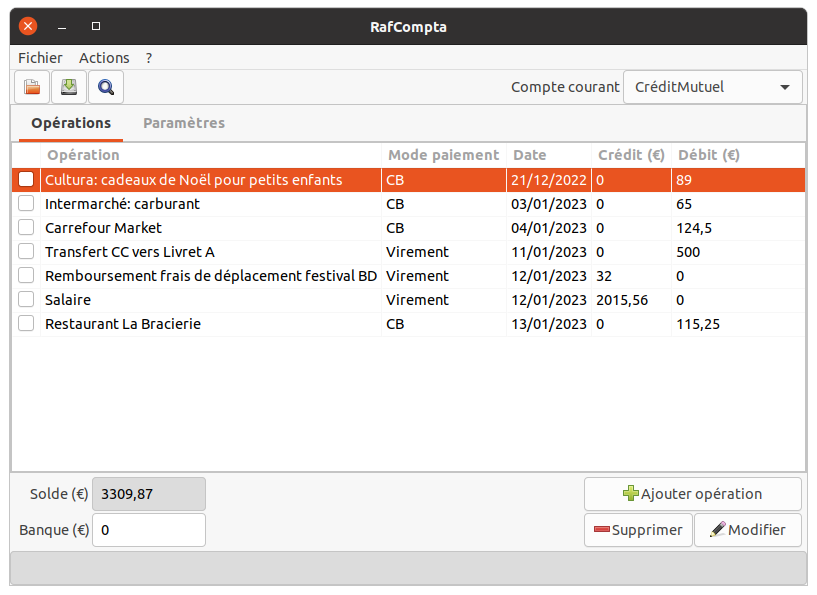
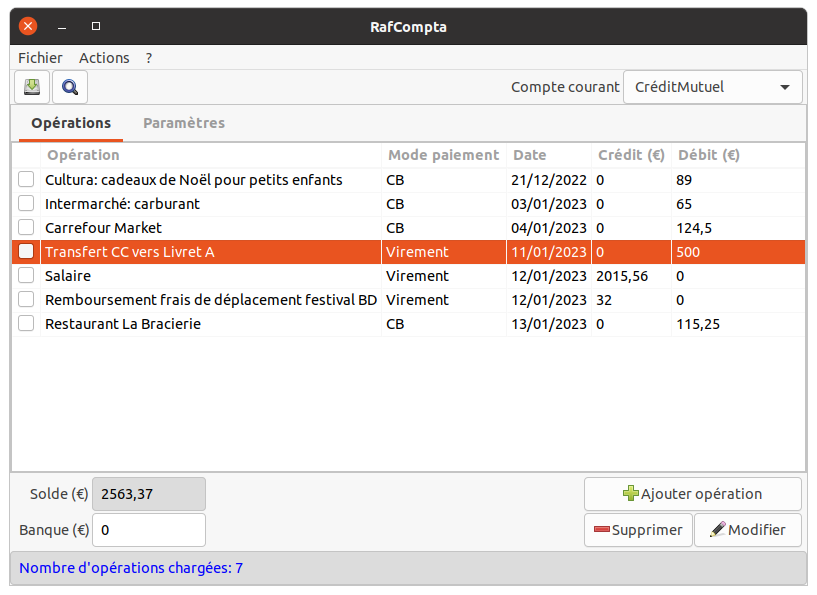
v1.3.0116.0

diff --git a/MainWindow.cs b/MainWindow.cs
@@ -51,7 +51,7 @@ namespace RafCompta
         private string strMsg = string.Empty;
         //
         // controles
-        [UI] private MenuItem mnuFichierOuvrir = null;
+        // [UI] private MenuItem mnuFichierOuvrir = null;
         [UI] private MenuItem mnuFichierEnregistrer = null;
         [UI] private MenuItem mnuFichierConsultArchive = null;
         [UI] private MenuItem mnuFichierQuitter = null;
@@ -73,7 +73,7 @@ namespace RafCompta
         [UI] private Button btnSupprimer = null;
         [UI] private Button btnModifier = null;
         [UI] private Button btnRapprocher = null;
-        [UI] private Button btnOuvrir = null;
+        // [UI] private Button btnOuvrir = null;
         [UI] private Button btnEnregistrer = null;
         [UI] private Button btnConsulterArchives = null;
         [UI] private Label lblEcart = null;
@@ -104,13 +104,23 @@ namespace RafCompta
             this.SetPosition(WindowPosition.Center);
             // timer pour afficher les messages d'erreurs au chargement
             // après l'affichage de la fenêtre principale
-            GLib.Timeout.Add(1000, new GLib.TimeoutHandler(update_status));
+            GLib.Timeout.Add(1000, new GLib.TimeoutHandler(Update_status));
         }
 
-        private bool update_status()
+        private bool Update_status()
         {
             if (strMsg != string.Empty)
+            {
                 Global.ShowMessage("Erreurs au chargement", strMsg, this);
+            }
+            else if (Global.FichierCompteNonTrouve == true)
+            {
+                // on lance la création d'un compte
+                OnMnuActionsAjouterCompte(new Object(), new EventArgs());
+                // si aucun compte créé
+                if (Global.ListeComptesModified == false)
+                    Global.AfficheInfo(txtInfo, "Créez un nouveau compte", new Gdk.Color(0,0,255));
+            }
             // returning false would terminate the timeout.
             return false;
         }
@@ -130,7 +140,7 @@ namespace RafCompta
             DeleteEvent += delegate { OnMnuFichierQuitter(this, new EventArgs()); };
             //
             // events menus
-            mnuFichierOuvrir.Activated += OnMnuFichierOuvrir;
+            // mnuFichierOuvrir.Activated += OnMnuFichierOuvrir;
             mnuFichierEnregistrer.Activated += OnMnuFichierEnregistrer;
             mnuFichierConsultArchive.Activated += OnMnuFichierConsultArchive;
             mnuFichierQuitter.Activated += OnMnuFichierQuitter;
@@ -153,7 +163,7 @@ namespace RafCompta
             btnSupprimer.Clicked += OnBtnSupprimerOperationClicked;
             btnModifier.Clicked += OnBtnModifierOperationClicked;
             btnRapprocher.Clicked += OnBtnRapprocherClick;
-            btnOuvrir.Clicked += OnBtnOuvrirClicked;
+            // btnOuvrir.Clicked += OnBtnOuvrirClicked;
             btnEnregistrer.Clicked += OnBtnEnregistrerClicked;
             btnConsulterArchives.Clicked += OnBtnConsulterArchivesClicked;
             //
@@ -170,14 +180,15 @@ namespace RafCompta
             //
             Global.LireConfigLocal(ref strMsg);
 			if (strMsg != string.Empty)
-                strMsg = "RafCompta, lecture configuration:" + strMsg + "\n\n";
+                strMsg = "Lecture configuration: " + strMsg + "\n\n";
             // chargement liste comptes
             string strMsg2 = string.Empty;
             Int16 nbComptes = datas.ChargeListeComptes(ref strMsg2);
-			if (nbComptes == 0)
+            if (strMsg2 != string.Empty)
             {
-                strMsg2 = "RafCompta, lecture liste comptes: " + strMsg2;
-			    strMsg += strMsg2 + "\nAucun compte n'a été trouvé";
+                if (strMsg != string.Empty)
+                    strMsg += "\n\n";
+                strMsg += "Lecture fichier comptes: " + strMsg2;
             }
 			//
             UpdateCbListeComptes();
@@ -186,7 +197,11 @@ namespace RafCompta
 			//
 			Global.ConfigModified = false;
 			Global.ListeComptesModified = false;
-            Global.AfficheInfo(txtInfo, "Sélectionnez un compte dans la liste déroulante, ou créez un nouveau compte", new Gdk.Color(0,0,255));
+            //
+            if (nbComptes == 0)
+                Global.AfficheInfo(txtInfo, "Créez un nouveau compte", new Gdk.Color(0,0,255));
+            else
+                Global.AfficheInfo(txtInfo, "Sélectionnez un compte dans la liste déroulante, ou créez un nouveau compte", new Gdk.Color(0,0,255));
         }
 
         private void OnBtnConsulterArchivesClicked(object sender, EventArgs e)
@@ -199,10 +214,10 @@ namespace RafCompta
             OnMnuFichierEnregistrer(sender, e);
         }
 
-        private void OnBtnOuvrirClicked(object sender, EventArgs e)
-        {
-            OnMnuFichierOuvrir(sender, e);
-        }
+        // private void OnBtnOuvrirClicked(object sender, EventArgs e)
+        // {
+        //     OnMnuFichierOuvrir(sender, e);
+        // }
 
         // Mise à jour des données.
         // <param name="bVersIHM"></param>
@@ -334,7 +349,7 @@ namespace RafCompta
         private void OnMnuPointAPropos(object sender, EventArgs e)
         {
             AboutBox aboutBox = new AboutBox(this);
-            aboutBox.ShowAll();
+            aboutBox.Show();// ShowAll affiche aussi le bouton License qui n'est pas connecté
         }
 
         // Bouton 'Rapprocher'.
@@ -667,18 +682,18 @@ namespace RafCompta
         // Menu 'Fichier->Ouvrir'.
 		// <param name="sender"></param>
 		// <param name="e"></param>
-		void OnMnuFichierOuvrir(object sender, EventArgs e)
-		{
-			if (Global.NomCompteCourant == string.Empty)
-			{
-				Global.AfficheInfo(txtInfo, "Impossible: veuillez d'abord sélectionner un compte courant", new Gdk.Color(255,0,0));
-				return;
-			}
-			txtInfo.Text = string.Empty;
-			ConfirmeSiDataModifiees("Ouvrir compte:");
-			//
-			OuvrirFichier();
-		}
+		// void OnMnuFichierOuvrir(object sender, EventArgs e)
+		// {
+		// 	if (Global.NomCompteCourant == string.Empty)
+		// 	{
+		// 		Global.AfficheInfo(txtInfo, "Impossible: veuillez d'abord sélectionner un compte courant", new Gdk.Color(255,0,0));
+		// 		return;
+		// 	}
+		// 	txtInfo.Text = string.Empty;
+		// 	ConfirmeSiDataModifiees("Ouvrir compte:");
+		// 	//
+		// 	OuvrirFichier();
+		// }
 
         /// <summary>
 		/// Ouverture du fichier de compte courant.

diff --git a/OperationBox.cs b/OperationBox.cs
@@ -128,13 +128,13 @@ namespace RafCompta
         private void OnTxtCreditFocusOut(object sender, EventArgs a)
         {
             txtCredit.FocusOutEvent -= OnTxtCreditFocusOut;
-			txtCredit.Text = Global.GetValueOrZero(txtInfo, sender, true).ToString();
+			txtCredit.Text = Math.Abs(Global.GetValueOrZero(txtInfo, sender, true)).ToString();
 			txtCredit.FocusOutEvent += OnTxtCreditFocusOut;
         }
         private void OnTxtDebitFocusOut(object sender, EventArgs a)
         {
             txtDebit.FocusOutEvent -= OnTxtDebitFocusOut;
-			txtDebit.Text = Global.GetValueOrZero(txtInfo, sender, true).ToString();
+			txtDebit.Text = Math.Abs(Global.GetValueOrZero(txtInfo, sender, true)).ToString();
 			txtDebit.FocusOutEvent += OnTxtDebitFocusOut;
         }
 
@@ -155,6 +155,13 @@ namespace RafCompta
 
         void OnBtnOkClicked(object sender, EventArgs e)
 		{
+            // crédit ou débit mais pas les deux
+            if (txtDebit.Text != "0" && txtCredit.Text != "0")
+            {
+                Global.AfficheInfo(txtInfo, "Impossible de saisir simultanément du crédit et du débit", new Gdk.Color(255,0,0));
+                return;
+            }
+            //
 			rResponse = ResponseType.Ok;
 			this.Dispose();
 		}

diff --git a/Global.cs b/Global.cs
@@ -59,6 +59,7 @@ namespace RafCompta
 		static bool bChargeFichierAuto;
 		static bool bSauveFichierAuto;
 		static bool bArchiveLigneRappro;
+		static bool bFichierCompteNonTrouve;
 		//
 		static bool bConfigModified;
 		static bool bListeComptesModified;
@@ -80,6 +81,7 @@ namespace RafCompta
         public static bool ListeComptesModified { get => bListeComptesModified; set => bListeComptesModified = value; }
         public static bool SauveFichierAuto { get => bSauveFichierAuto; set => bSauveFichierAuto = value; }
         public static bool ArchiveLigneRappro { get => bArchiveLigneRappro; set => bArchiveLigneRappro = value; }
+        public static bool FichierCompteNonTrouve { get => bFichierCompteNonTrouve; set => bFichierCompteNonTrouve = value; }
 
         public enum eTrvOperationsCols
 		{
@@ -112,6 +114,7 @@ namespace RafCompta
 			ChargeFichierAuto = true;
 			SauveFichierAuto = false;
 			ArchiveLigneRappro = true;
+			FichierCompteNonTrouve = false;
 			//
 			ConfigModified = false;
 			ListeComptesModified = false;

diff --git a/AboutBox.cs b/AboutBox.cs
@@ -50,13 +50,12 @@ namespace RafCompta
             this.Version = System.Reflection.Assembly.GetExecutingAssembly().GetName().Version.ToString();
         
             Widget[] buttons = btnBox.Children;
-            // attention, pas de bouton Fermer sur Xubuntu
+            // attention, pas de bouton Fermer sur Ubuntu
             if (buttons.Length > 2)
             {
                 Button btnFermer = (Button)buttons[2];
                 btnFermer.Clicked += OnBtnFermerClicked;
             }
-            //Global.ShowMessage("", btnFermer., this);
         }
 
         private void OnBtnFermerClicked(object sender, EventArgs e)

diff --git a/Datas.cs b/Datas.cs
@@ -161,6 +161,10 @@ namespace RafCompta
 					}
 				}
 			}
+			catch (FileNotFoundException)
+			{
+				Global.FichierCompteNonTrouve = true;
+			}
 			catch (Exception ex)
 			{
 				strMsg += ex.Message;

diff --git a/README.md b/README.md
@@ -15,8 +15,8 @@ Les fichiers sont stockés dans le sous-dossier _Fichiers_, situé dans le dossi
 
 ### Créer un compte
 
-Au 1er lancement de l'application, un message d'erreur signalera qu'aucun compte n'a été trouvé. La 1ère étape consiste donc à créer un ou plusieurs comptes.
-Par le menu **Action** -> **Ajouter compte**, renseigner le nom du compte (16 caractères maxi) et son solde initial:
+Au 1er lancement de l'application, si aucun compte n'a été trouvé, il vous est proposé de créer un compte.
+La boite de dialogue _Nouveau compte_ s'ouvre (aussi accessible par le menu **Action** -> **Ajouter compte**), renseigner le nom du compte (16 caractères maxi) et son solde initial:
 
 ![AjouterCompte](images/markdown/ajouter_compte.png)
 
@@ -117,15 +117,22 @@ Pour déployer l'application en dehors de _Visual Studio Code_:
 
 * **1.3.0113.1**
     Première version publiée.
+* **1.3.0116.0**
+  * Ajout contrôle sur saisie simultanée de débit et de crédit et prise en compte de la valeur absolue des valeurs.
+  * Suppression du menu **Fichier**->**Ouvrir** et du bouton associé (le chargement des données comptes est automatique).
+  * Au lancement de l'application, si aucun compte n'existe, on enchaîne sur la création d'un compte.
 
 ## Téléchargements
 
-* Archive _tar.xz_ sans le Runtime _.NET 6_: [v1.3.0113.1](https://e-nautia.com/rafbor/disk/RafCompta/RafCompta_1.3.0113.1_sans_runtime.tar.xz)
-* Archive _tar.xz_ incluant le Runtime _.NET 6_: [v1.3.0113.1](https://e-nautia.com/rafbor/disk/RafCompta/RafCompta_1.3.0113.1_avec_runtime.tar.xz)
+* **Linux**: archive _tar.xz_ sans le Runtime _.NET 6_: [v1.3.0116.0](https://e-nautia.com/rafbor/disk/RafCompta/RafCompta_1.3.0116.0_sans_runtime.tar.xz)
+* **Linux**: archive _tar.xz_ incluant le Runtime _.NET 6_: [v1.3.0116.0](https://e-nautia.com/rafbor/disk/RafCompta/RafCompta_1.3.0116.0_avec_runtime.tar.xz)
 
-Sur Linux:
+### Installation sur Linux
+
 * décompresser l'archive et se positionner dans le dossier.
 * rendre exécutable le fichier _RafCompta_:
-```chmod +x RafCompta```
+ ```chmod +x RafCompta```
 * lancer l'application:
-```./RafCompta```
+ ```./RafCompta```
+
+Installation du Runtime .NET 6: voir [Installer .NET sur Linux](https://learn.microsoft.com/fr-fr/dotnet/core/install/linux)
